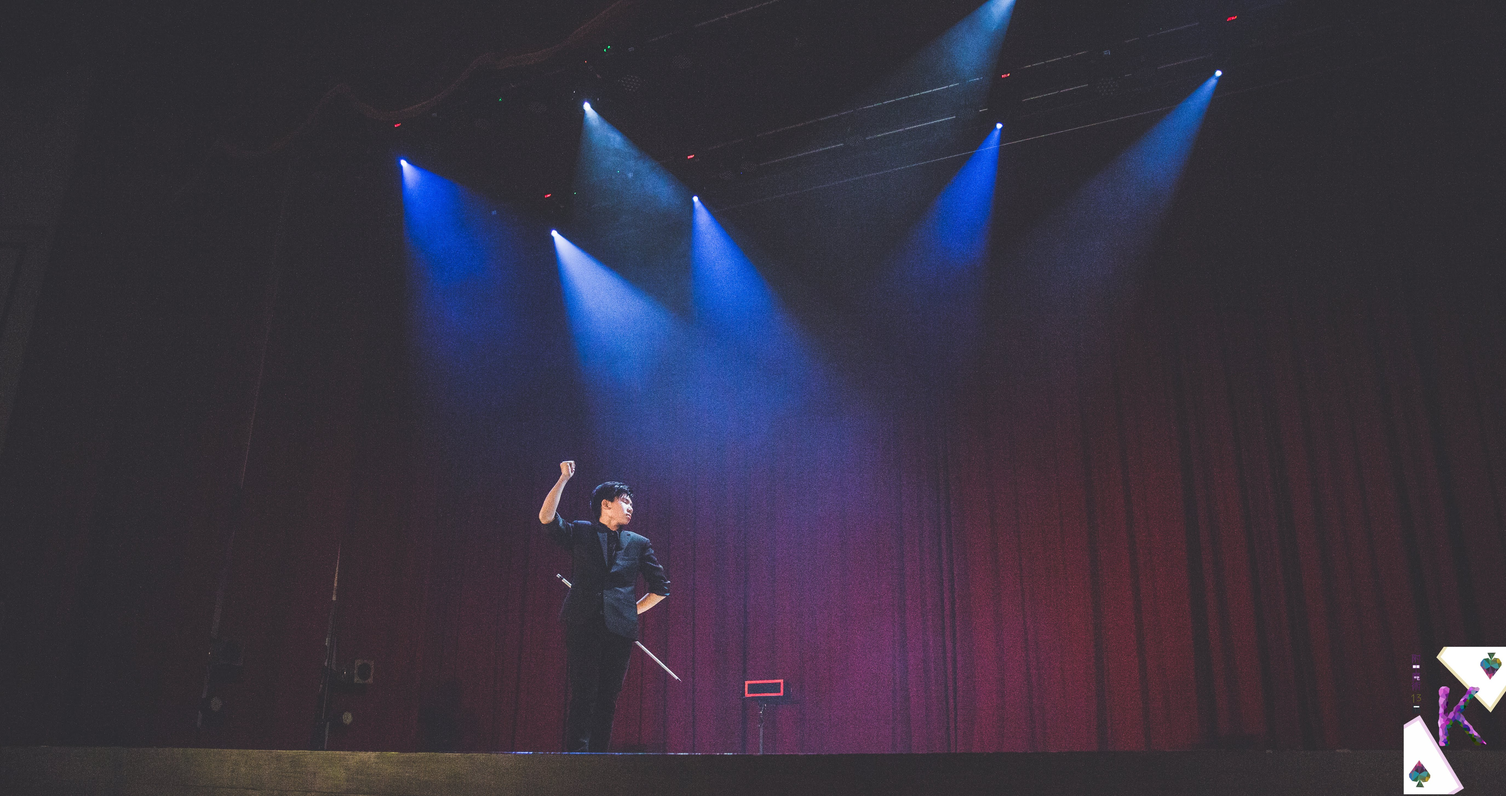
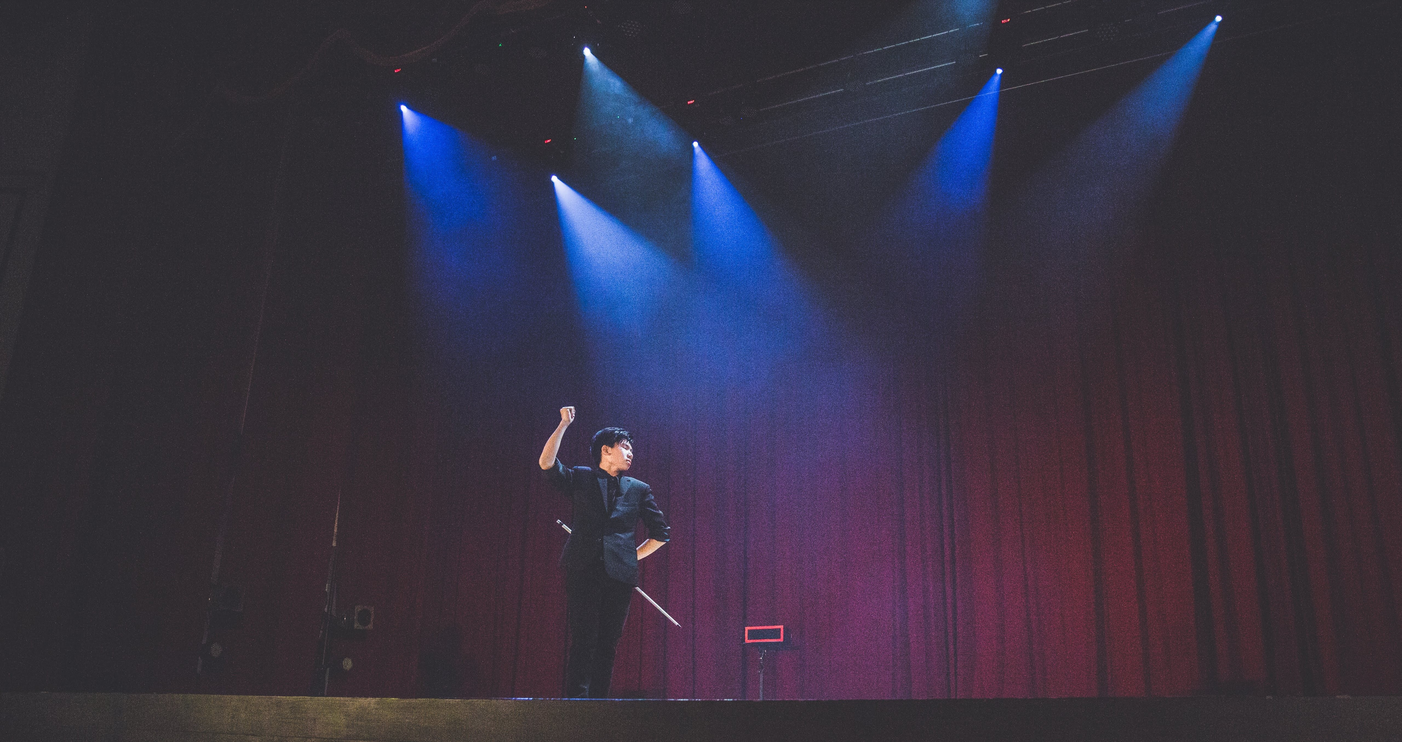
Update photos

Changed region(s): [[0.0932, 0.0, 0.9008, 1.0], [0.9318, 0.8062, 1.0, 1.0]]

diff --git a/index.html b/index.html
@@ -88,7 +88,7 @@
     <div class="container">
       <div class="row">
         <div class="col-sm-6">
-          <img src="./img/me.jpg" alt="個人照" style="height: 300px;">
+          <img src="./img/me.jpg" alt="個人照" style="height: 500px; position: relative; left: 100px;">
         </div>
         <div class="col--sm-6">
           <h2>謝侑均 Kevin Xie</h2>
@@ -110,16 +110,7 @@
           </table>
           
           <h5>「願帶夢想給任何一個相信魔法的你！」</h5>
-        </div>
-      </div>
-    </div>
-
-    <div class="container">
-      <div class="row">
-        <div class="col-sm-6">
-          <h2></h2>
-        </div>
-        <div class="col-sm-6">
+          <br>
           <h2>Where magic happens...</h2>
           <p>演出經歷</p>
           <p>>PSY魔術大賽<br>
@@ -194,6 +185,8 @@
           <li data-target="#carousel-demo" data-slide-to="2"></li>
           <li data-target="#carousel-demo" data-slide-to="3"></li>
           <li data-target="#carousel-demo" data-slide-to="4"></li>
+          <li data-target="#carousel-demo" data-slide-to="5"></li>
+          <li data-target="#carousel-demo" data-slide-to="6"></li>
         </ol>
         <div class="carousel-inner">
           <div class="carousel-item active">
@@ -210,6 +203,12 @@
           </div>
           <div class="carousel-item">
             <img class="d-block w-100" src="img/4.jpg" alt="">
+          </div>
+          <div class="carousel-item">
+            <img class="d-block w-100" src="img/5.jpg" alt="">
+          </div>
+          <div class="carousel-item">
+            <img class="d-block w-100" src="img/6.jpg" alt="">
           </div>
 
           <a href="#carousel-demo" class="carousel-control-prev" data-slide="prev">

diff --git a/css/style.css b/css/style.css
@@ -39,12 +39,12 @@ a{
 
 
 .carousel .carousel-item {
-    height: 500px;
+    height: 550px;
 }
   
 .carousel .carousel-item img {
     min-height: 300px;
-    max-height: 600px;
+    max-height: 800px;
     object-fit: cover;
 }
 
